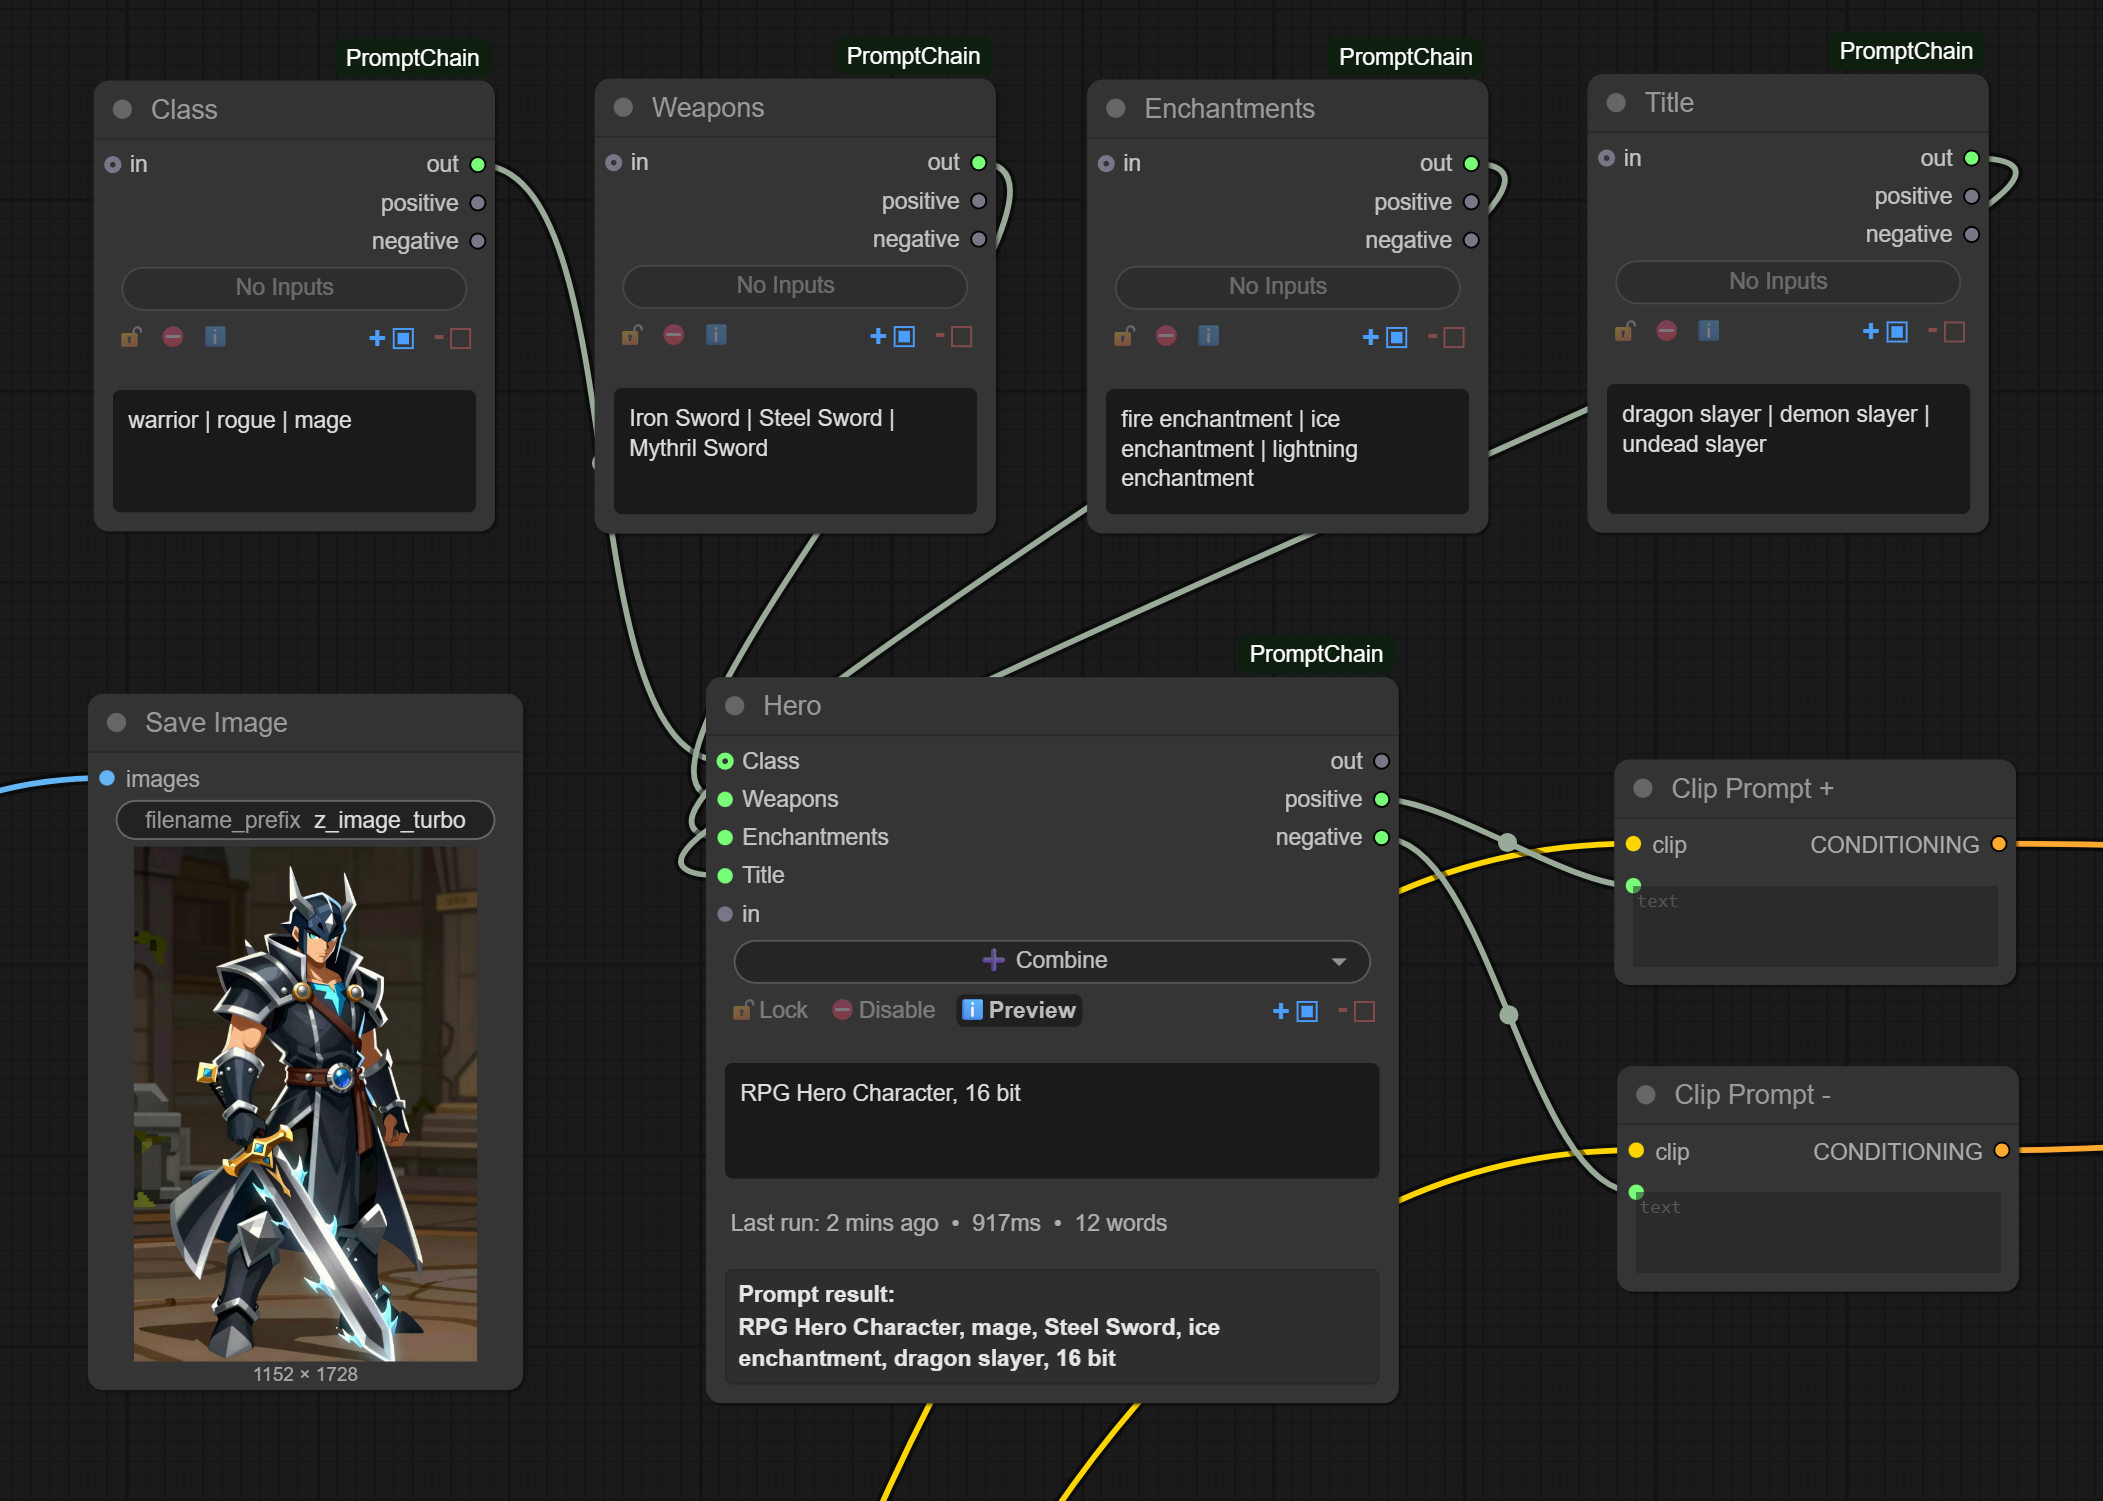
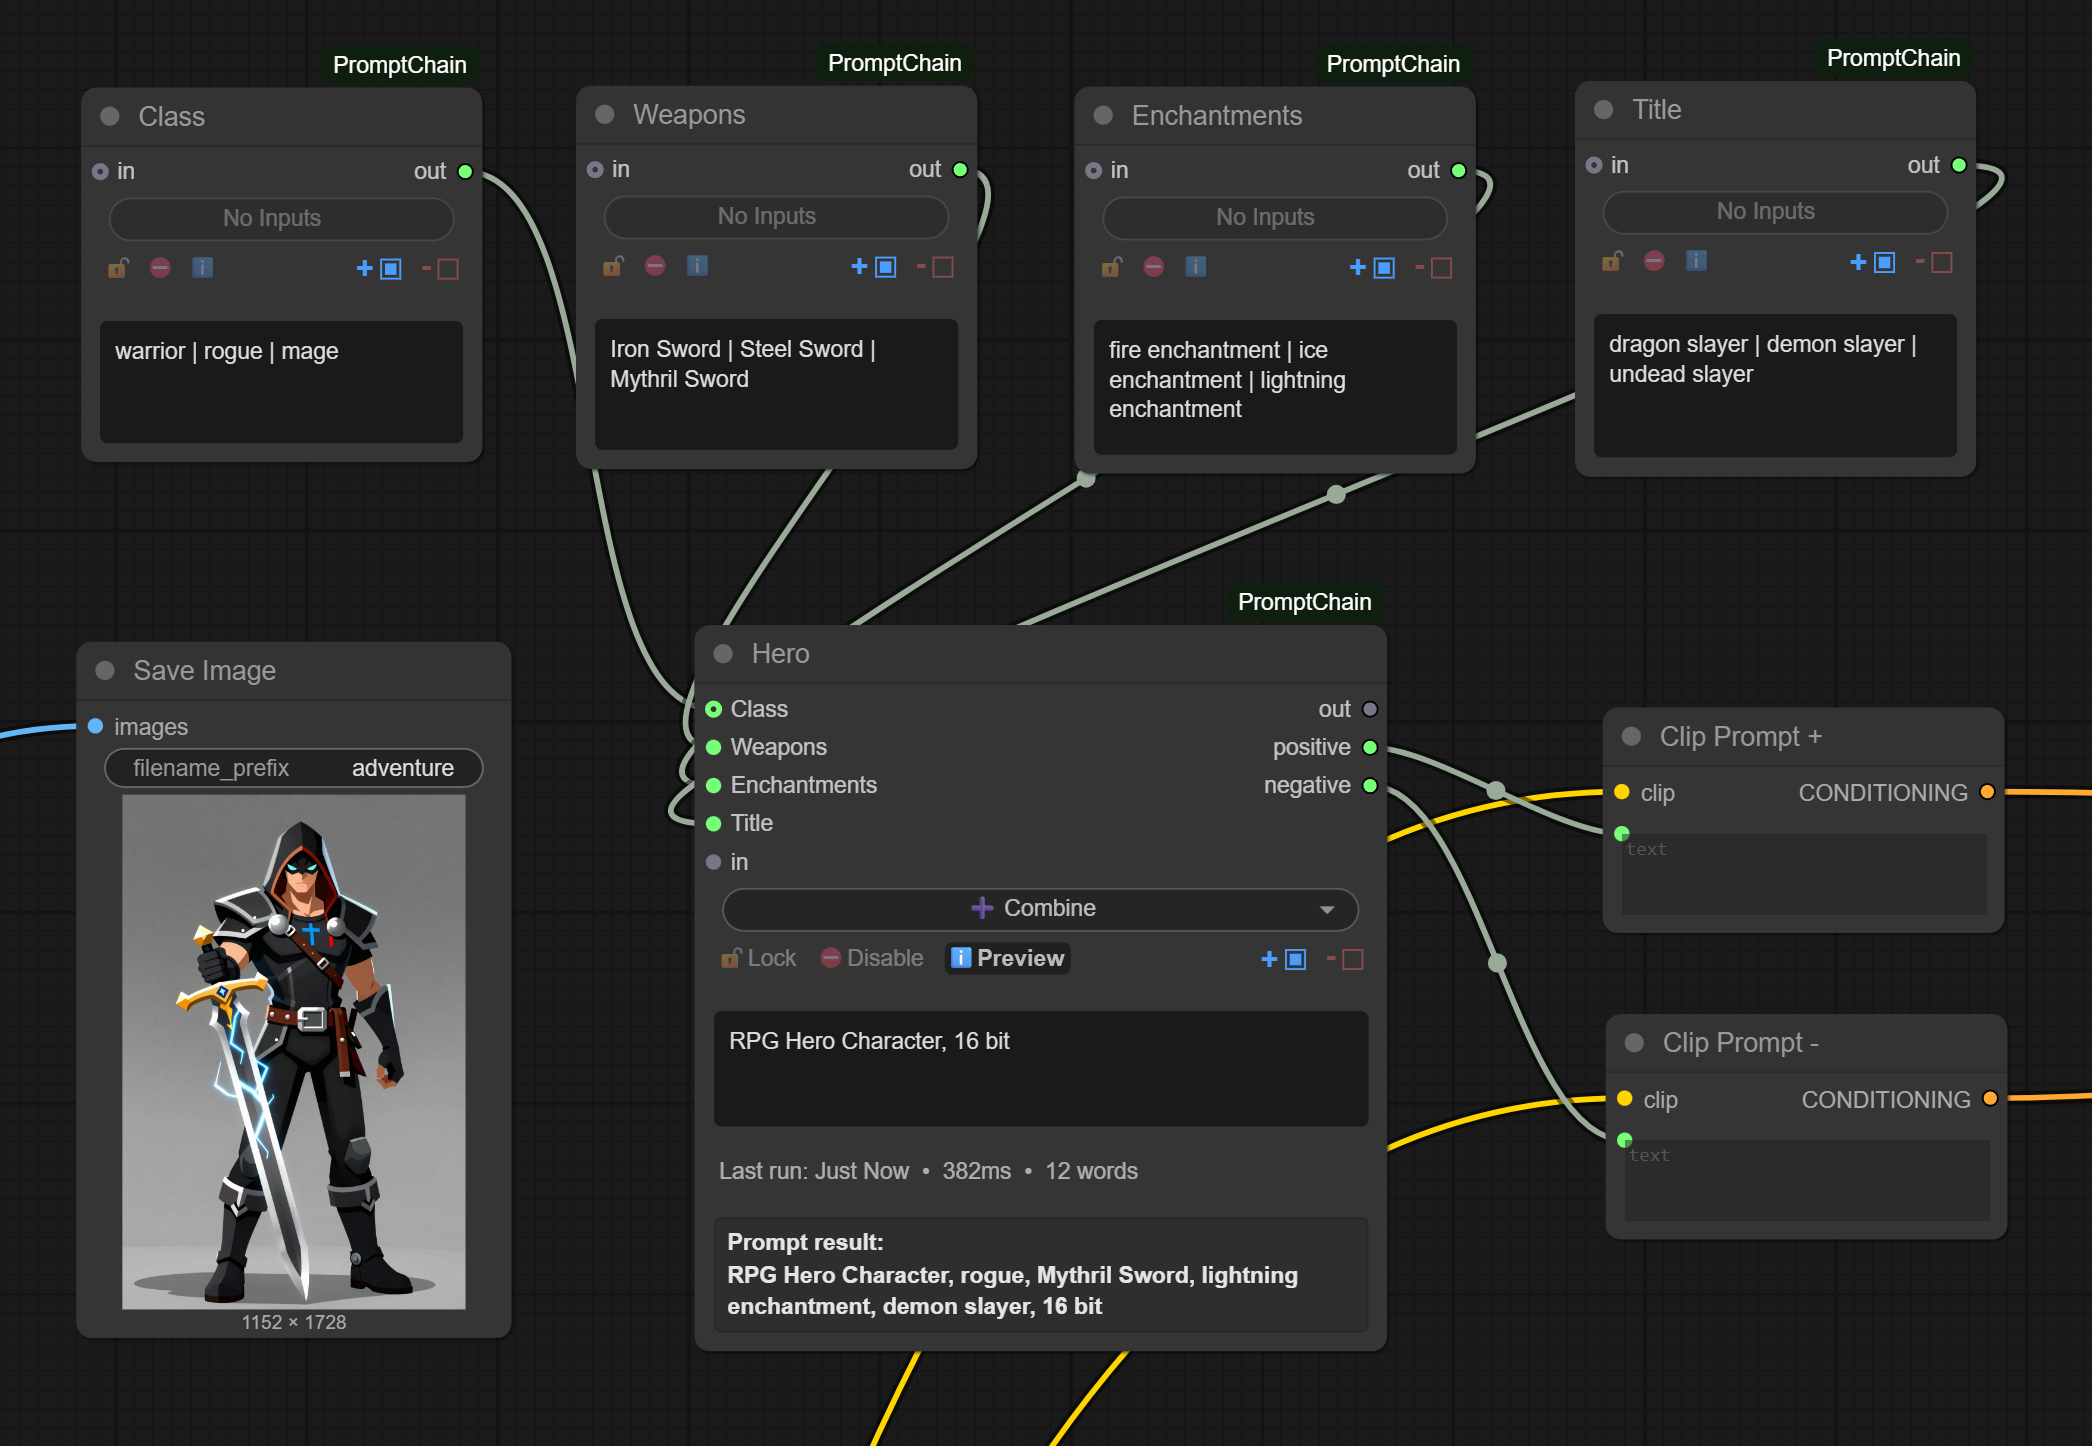
Hide positive/negative outputs when chain is connected
Only show positive/negative output sockets on terminal nodes (where
chain output is not connected). Upstream nodes only need the chain
output since it carries bundled pos/neg data.

Outputs are preserved if they have existing connections.

🤖 Generated with [Claude Code](https://claude.com/claude-code)

diff --git a/web/js/promptchain.js b/web/js/promptchain.js
@@ -114,9 +114,9 @@ app.registerExtension({
 				originalOutputs = node.outputs.map(o => ({ name: o.name, type: o.type, links: o.links }));
 			}
 
-			// Only hide positive/negative if BOTH inputs AND chain output are connected (complete pass-through)
-			// If inputs connected but chain not connected, show all outputs (hanging state needs reconnection)
-			if (hasConnectedInputs && chainIsConnected) {
+			// Hide positive/negative if chain output is connected (pass-through mode)
+			// Show all outputs when chain is not connected (terminal node needs pos/neg for CLIP)
+			if (chainIsConnected) {
 				// Keep only the chain output (remove positive/negative)
 				// But only if they don't have connections
 				const posOutput = node.outputs?.find(o => o.name === "positive");
@@ -1670,17 +1670,14 @@ app.registerExtension({
 
 			// Caps are now embedded in textboxes via CSS - no insertion needed
 
-			// Update output visibility based on connected inputs and chain output
+			// Update output visibility based on chain output connection
 			setTimeout(() => {
-				const inputSlots = node.inputs?.filter(i => i.name.startsWith("input_")) || [];
-				const hasConnectedInputs = inputSlots.some(slot => slot.link !== null);
-
 				// Check if chain output is connected
 				const chainOutput = node.outputs?.find(o => o.name === "chain");
 				const chainIsConnected = chainOutput?.links && chainOutput.links.length > 0;
 
-				// Only hide if both inputs AND chain are connected (complete pass-through)
-				if (hasConnectedInputs && chainIsConnected) {
+				// Hide positive/negative if chain is connected (pass-through mode)
+				if (chainIsConnected) {
 					// Remove positive/negative outputs if they have no connections
 					const posOutput = node.outputs?.find(o => o.name === "positive");
 					const negOutput = node.outputs?.find(o => o.name === "negative");
